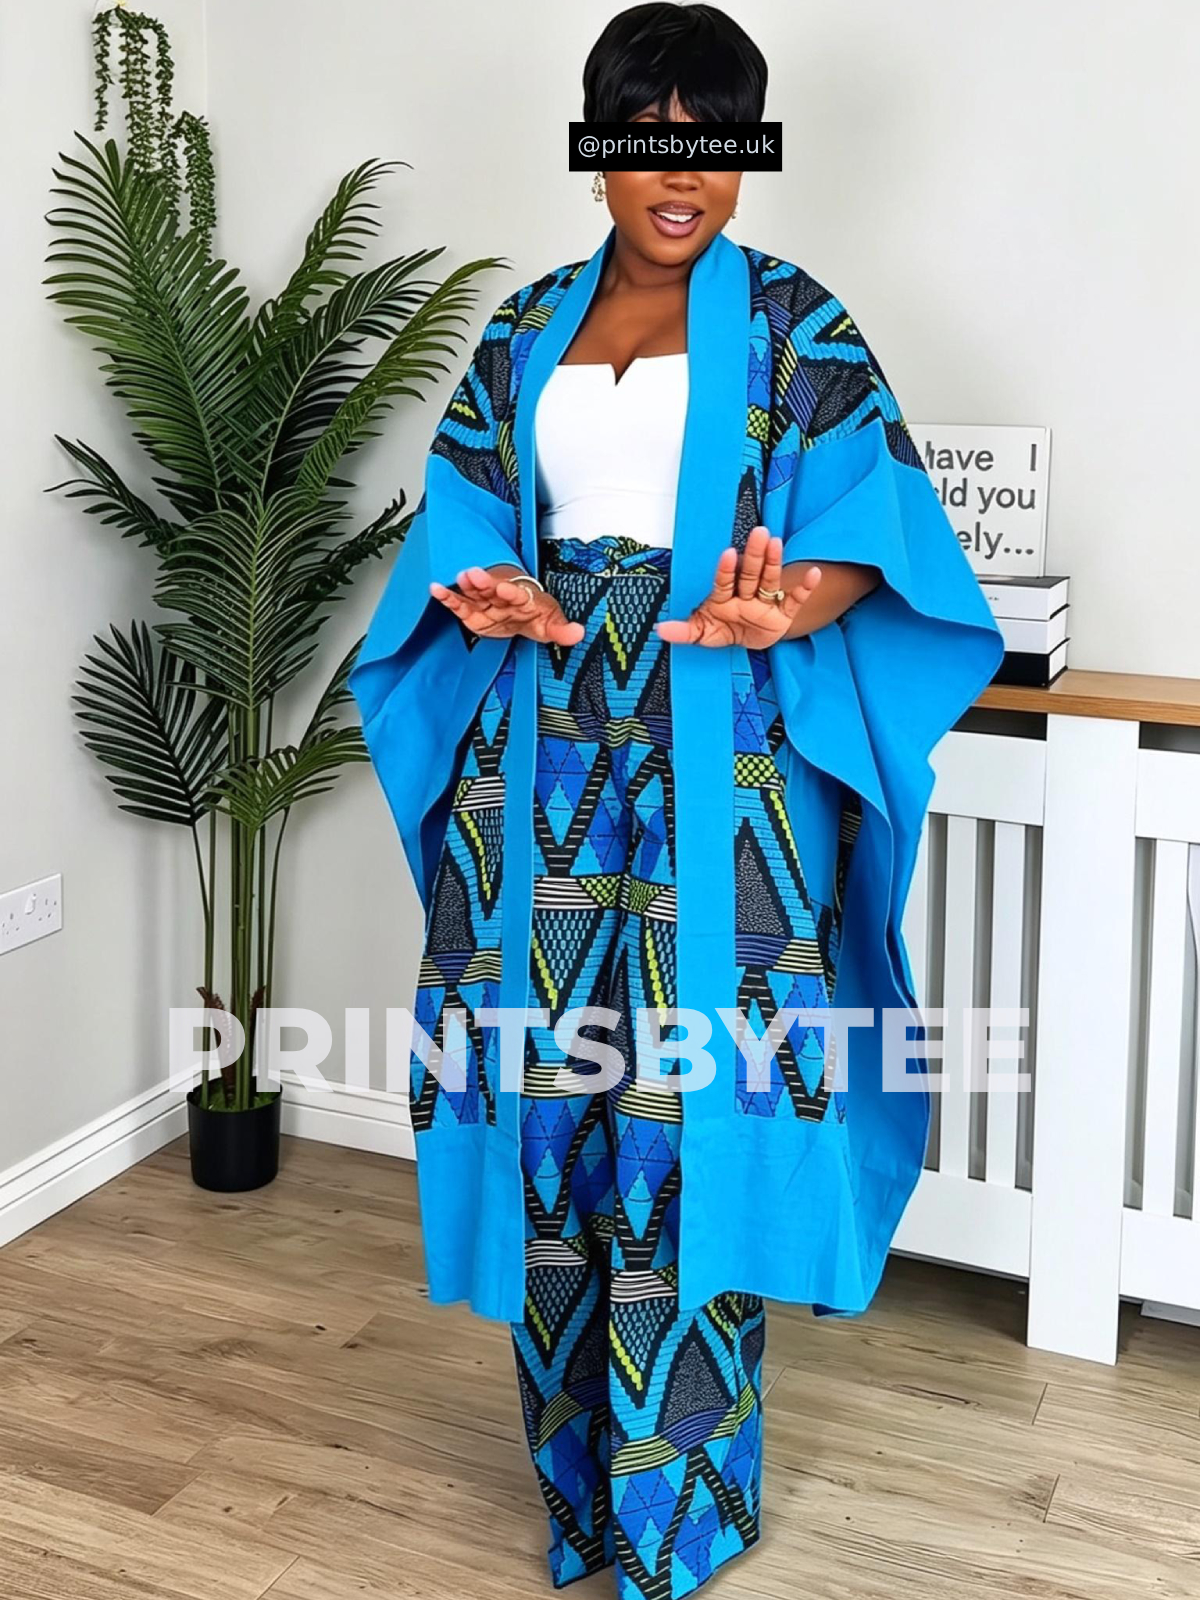
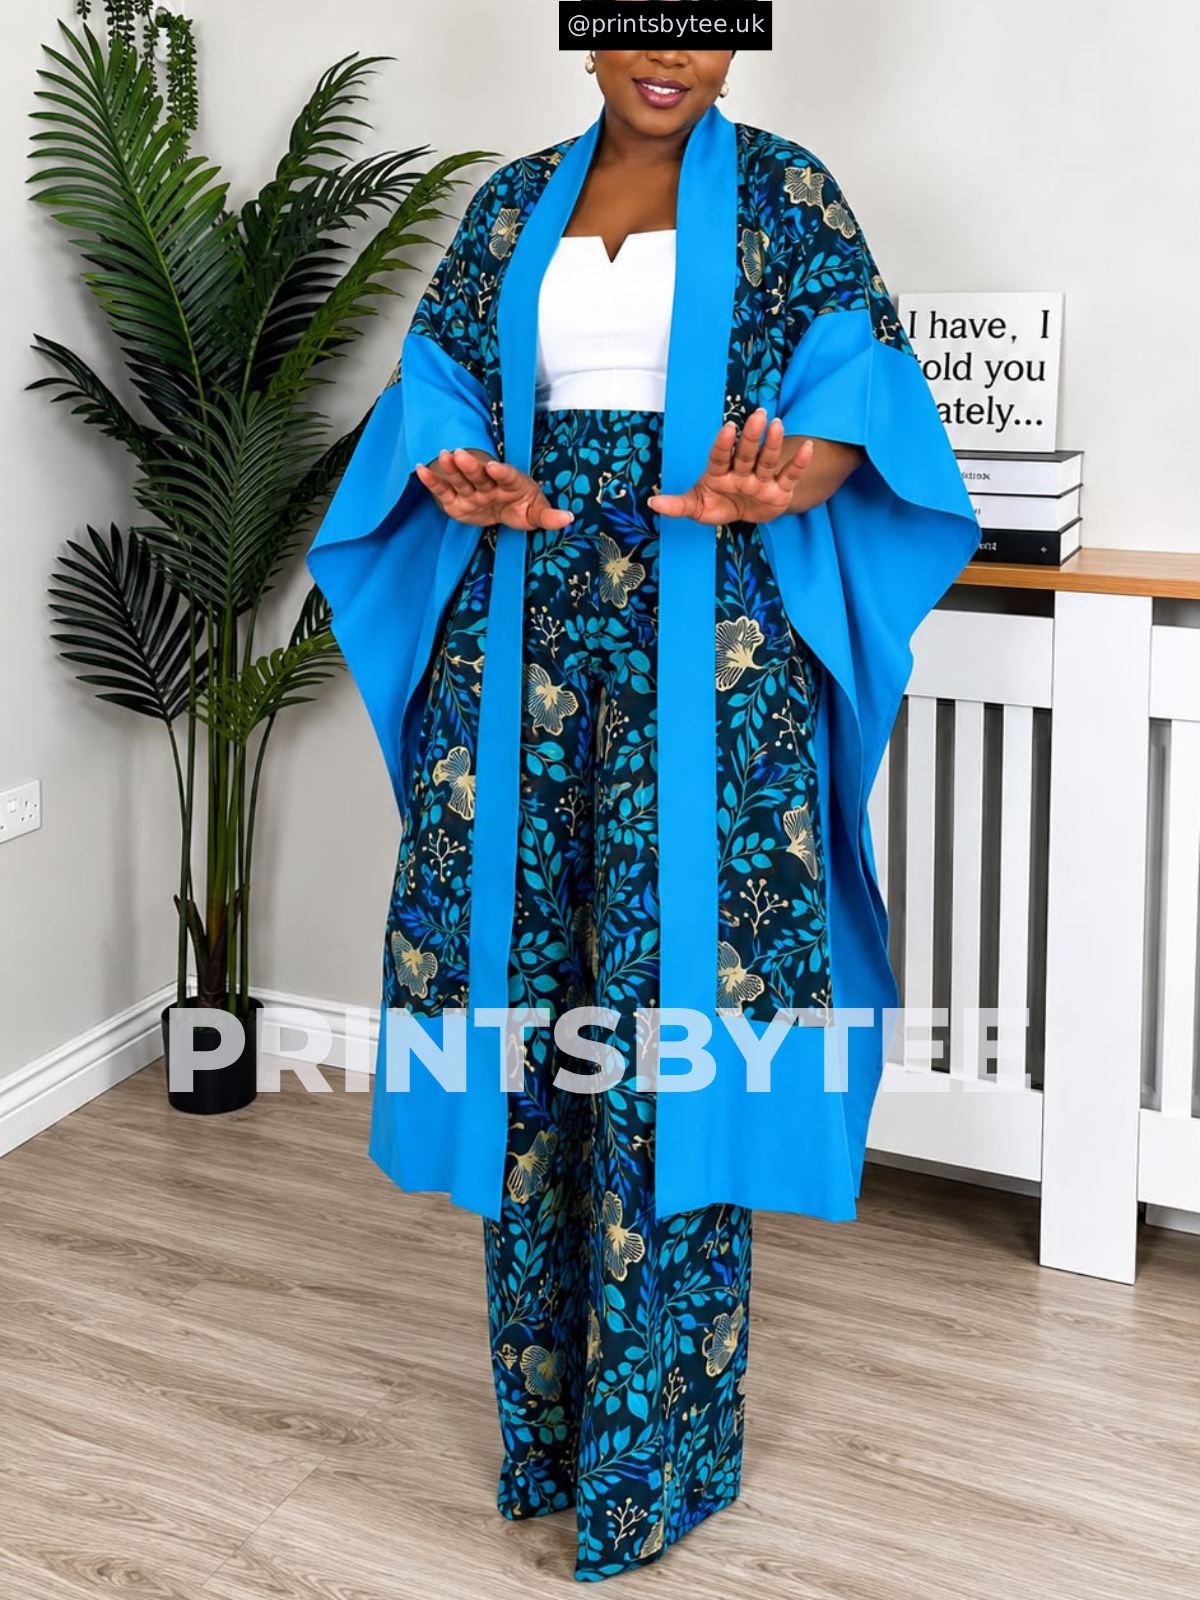
Update product inventory and ordering

diff --git a/components/products/ProductGrid.tsx b/components/products/ProductGrid.tsx
@@ -23,12 +23,17 @@ export function ProductGrid({ products }: ProductGridProps) {
     { value: "seline-dress", label: "Seline Dress" },
     { value: "aso-oke-kimono", label: "Aso Oke Kimono Set" },
     { value: "aso-oke-pant", label: "Aso Oke Pant" },
-    { value: "fringe-bubu", label: "Fringe Bubu" },
+    { value: "fringe-bubu", label: "Fringe Dress" },
   ];
 
-  const filteredProducts = activeFilter === "all" 
-    ? products 
-    : products.filter(p => p.category === activeFilter);
+  const filteredProducts = activeFilter === "all"
+    ? products
+    : products.filter((product) => product.category === activeFilter);
+
+  const sortedProducts = [...filteredProducts].sort((left, right) => {
+    if (left.inStock === right.inStock) return 0;
+    return left.inStock ? -1 : 1;
+  });
 
   return (
     <div className="space-y-8">
@@ -53,13 +58,13 @@ export function ProductGrid({ products }: ProductGridProps) {
 
       {/* Product Count */}
       <p aria-live="polite" className="text-center text-sm text-black/60">
-        Showing {filteredProducts.length} {filteredProducts.length === 1 ? "product" : "products"}
+        Showing {sortedProducts.length} {sortedProducts.length === 1 ? "product" : "products"}
       </p>
 
       {/* Products Grid */}
-      {filteredProducts.length > 0 ? (
+      {sortedProducts.length > 0 ? (
         <div className="grid grid-cols-1 sm:grid-cols-2 lg:grid-cols-3 gap-6">
-          {filteredProducts.map((product, index) => (
+          {sortedProducts.map((product, index) => (
             <ProductCard key={product.id} product={product} index={index} />
           ))}
         </div>
